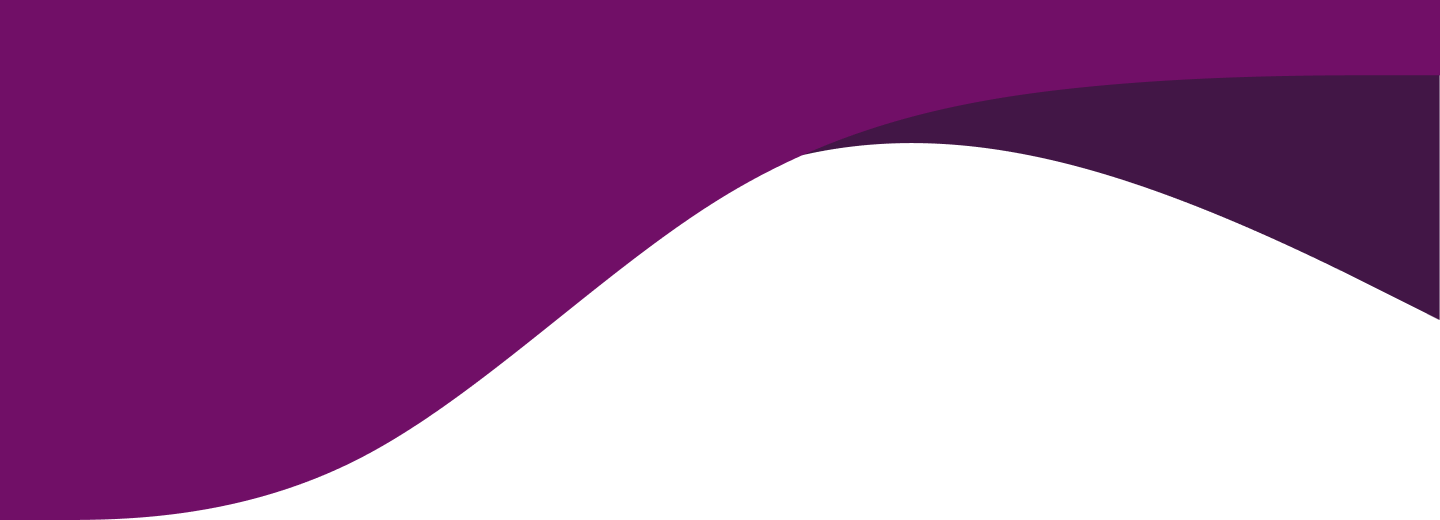
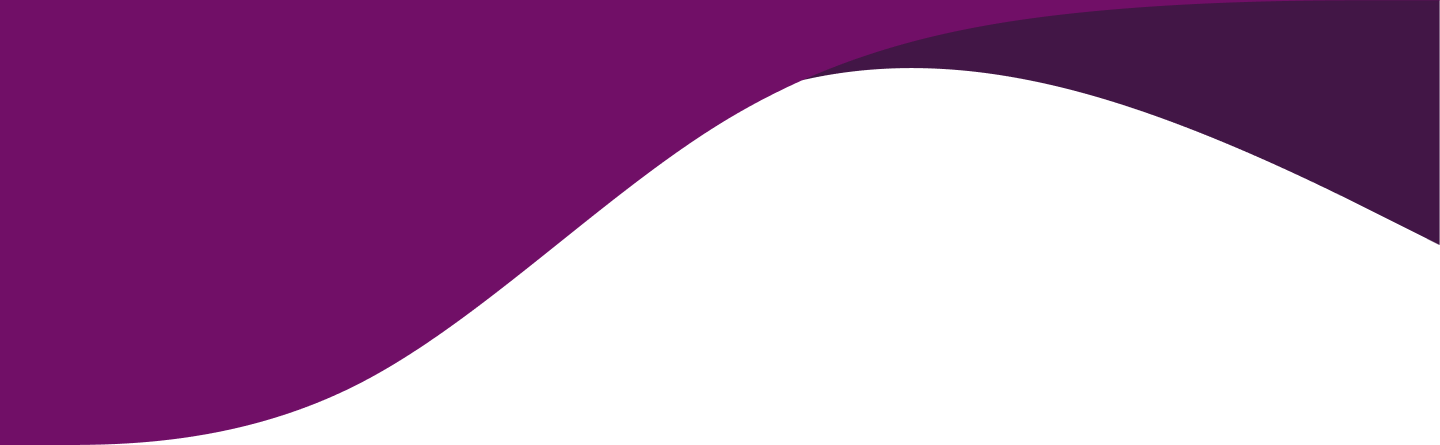
chore: Resposivity of Header

diff --git a/src/components/Header/styles.ts b/src/components/Header/styles.ts
@@ -6,7 +6,7 @@ import headerbackground from '../../assets/headerbackground.png';
 export const Container = styled.div`
   background: var(--black) url(${headerbackground}) no-repeat top;
   background-size: contain;
-  padding: 4% 8% 8%;
+  padding: 0% 8% 8%;
   display: flex;
   flex-direction: column;
 `;
@@ -15,36 +15,48 @@ export const HeaderContent = styled.div`
   display: flex;
   justify-content: space-around;
   align-items: center;
+
+  @media (max-width: 530px) {
+    flex-direction: column;
+  }
 `;
 
 export const AvatarImage = styled.img`
-  width: 80vh;
-  height: 80vh;
-  border: 1.5vh solid var(--black);
+  width: 37%;
+  border: 1rem solid var(--black);
   border-radius: 50%;
+
+  @media (max-width: 530px) {
+    width: 60%;
+  }
 `;
 
 export const HelloTexts = styled.div``;
 
 export const Hi = styled.p`
-  font-size: 13vh;
+  font-size: 7rem;
   color: var(--white);
 `;
 
 export const Name = styled.p`
-  font-size: 13vh;
+  font-size: 7rem;
   font-weight: bold;
   color: var(--primary);
 `;
 
 export const Role = styled.p`
-  font-size: 4vh;
+  font-size: 3.2rem;
   color: var(--secundary);
   text-align: right;
 `;
 
 export const DownArrowIcon = styled(ChevronsDown)`
-  width: 12vh;
+  width: 8%;
   color: var(--primary);
   align-self: center;
+
+  @media (max-width: 530px) {
+    width: 15%;
+    margin-top: 3%;
+  }
 `;

diff --git a/src/styles/GlobalStyles.ts b/src/styles/GlobalStyles.ts
@@ -6,6 +6,12 @@ export default createGlobalStyle`
     padding: 0;
     box-sizing: border-box;
   }
+  html {
+    font-size: 62.5%;
+  }
+  body {
+    font-size: 1.6rem;
+  }
   html, body, #root {
     height: 100%;
   }
@@ -19,5 +25,20 @@ export default createGlobalStyle`
     --white: #FFFFFF;
     --primary: #710F67;
     --secundary: #421646;
+  }
+  @media (min-width: 1500px) {
+    html {
+      font-size: 80%;
+    }
+  }
+  @media (max-width: 1024px) {
+    html {
+      font-size: 40%;
+    }
+  }
+  @media (max-width: 700px) {
+    html {
+      font-size: 30%;
+    }
   }
 `;

diff --git a/src/pages/AboutMe/styles.ts b/src/pages/AboutMe/styles.ts
@@ -1,10 +1,15 @@
 import styled from 'styled-components';
-import { Menu } from 'styled-icons/feather';
+import { Menu as MenuFeatherIcon } from 'styled-icons/feather';
 
-export const MenuIcon = styled(Menu)`
-  width: 8vh;
-  position: absolute;
-  top: 2vh;
-  right: 3vh;
+export const Menu = styled.div`
+  height: 8rem;
+  background: var(--primary);
+  display: flex;
+  justify-content: flex-end;
+`;
+
+export const MenuIcon = styled(MenuFeatherIcon)`
+  width: 50px;
+  margin-right: 2rem;
   color: var(--white);
 `;

diff --git a/src/pages/AboutMe/index.tsx b/src/pages/AboutMe/index.tsx
@@ -2,11 +2,13 @@ import React from 'react';
 
 import Header from '../../components/Header';
 
-import { MenuIcon } from './styles';
+import { Menu, MenuIcon } from './styles';
 
 const AboutMe: React.FC = () => (
   <>
-    <MenuIcon />
+    <Menu>
+      <MenuIcon />
+    </Menu>
     <Header />
   </>
 );
